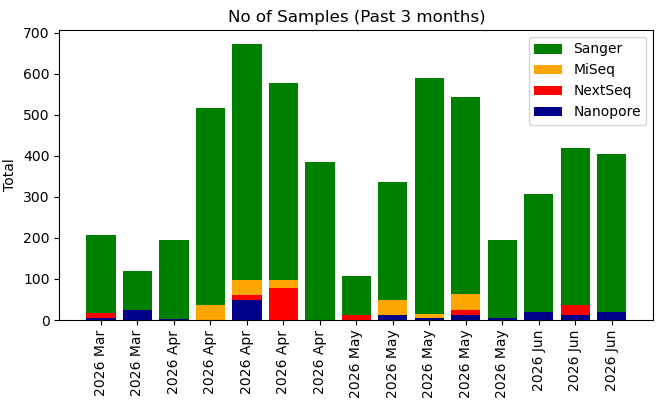
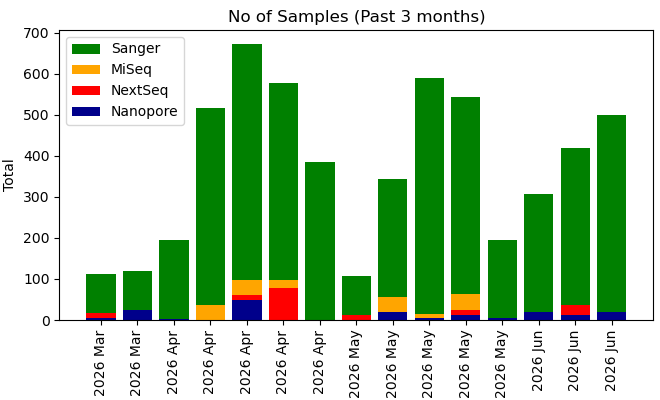
Your commit message here

diff --git a/krona/cgs.html b/krona/cgs.html
@@ -52,8 +52,8 @@ body {
   flex-direction: column;
 }
 </style>
-<H1>Genomics Facility Status: 07:00:16, 19/06/2026</H1>
-<marquee behavior="scroll" scrollamount="20" direction="left" bgcolor="lightgrey">AATCCGCGGCATTTAGTAGCGGTAAAGTTAGACCAAACCATGAAACCAACATAAACATTATTGCCCGGCGTACGGGGAAGGACGTCAATAGTCACACAGTCCTTGACGGTATAATAACCACCATCATGGCGACCATCCAAAGGATAAACATCATAGGCAGTCGGGAGGGTAGTCGGAACCGAAGAAGACTCAAAGCGAACCAAACAGGCAAAAAATTTAGGGTCGGCATCAAAAGCAATATCAGCACCAA</marquee>
+<H1>Genomics Facility Status: 07:00:21, 20/06/2026</H1>
+<marquee behavior="scroll" scrollamount="20" direction="left" bgcolor="lightgrey">CCGGCGTCAACCATACCAGCAGAGGAAGCATCAGCACCAGCACGCTCCCAAGCATTAAGCTCAGGAAATGCAGCAGCAAGATAATCACGAGTATCCTTTCCTTTATCAGCGGCAGACTTGCCACCAAGTCCAACCAAATCAAGCAACTTATCAGAAACGGCAGAAGTGCCAGCCTGCAACGTACCTTCAAGAAGTCCTTTACCAGCTTTAGCCATAGCACCAGAAACAAAACTAGGGACGGCCTCATCAGG</marquee>
 <TABLE BORDER=0><TR><TD><TABLE class="styled-table"><H3>GigaBases Sequenced</H3>
-<TR><TD><b>Platform</b></TD><TD><b>Week</b></TD><TD><b>Month</b></TD><TD><b>Year</b></TD><TD><b>Total</b></TD></TR><TR><TD>Illumina MiSeq</TD><TD>0.0</TD><TD>7.36</TD><TD>341.6</TD><TD>567.8</TD></TR><TR><TD>Illumina NextSeq</TD><TD>143.68</TD><TD>151.09</TD><TD>3884.17</TD><TD>6797.43</TD></TR><TR><TD>Nanopore PromethION</TD><TD>303.94</TD><TD>1128.87</TD><TD>8813.97</TD><TD>13758.17</TD></TR><TR><TD>Sanger</TD><TD>0.0</TD><TD>0.0</TD><TD>0.02</TD><TD>0.05</TD></TR></TABLE></TD><TD><IMG SRC="fig1.png"><IMG SRC="fig2.png"></TD></TR><TR><TD><H3>No. Samples (No. Experiments)</H3>
-<TABLE class="styled-table"><TR><TD><b>Platform</b></TD><TD><b>Week</b></TD><TD><b>Month</b></TD><TD><b>Year</b></TD><TD><b>Total</b></TD></TR><TR><TD>Illumina MiSeq</TD><TD>0 (0)</TD><TD>40 (1)</TD><TD>1360 (69)</TD><TD>2514 (101)</TD></TR><TR><TD>Illumina NextSeq</TD><TD>24 (1)</TD><TD>36 (3)</TD><TD>1236 (58)</TD><TD>2222 (90)</TD></TR><TR><TD>Nanopore PromethION</TD><TD>27 (8)</TD><TD>67 (29)</TD><TD>647 (217)</TD><TD>1075 (379)</TD></TR><TR><TD>Sanger</TD><TD>480 (480)</TD><TD>1728 (1728)</TD><TD>21115 (21115)</TD><TD>46914 (46914)</TD></TR></TABLE></TD><TD><IMG SRC="fig4.png"></TD></TR></TABLE></HTML>
+<TR><TD><b>Platform</b></TD><TD><b>Week</b></TD><TD><b>Month</b></TD><TD><b>Year</b></TD><TD><b>Total</b></TD></TR><TR><TD>Illumina MiSeq</TD><TD>0.0</TD><TD>7.36</TD><TD>341.6</TD><TD>567.8</TD></TR><TR><TD>Illumina NextSeq</TD><TD>143.68</TD><TD>143.68</TD><TD>3884.17</TD><TD>6797.43</TD></TR><TR><TD>Nanopore PromethION</TD><TD>526.29</TD><TD>1351.22</TD><TD>9036.04</TD><TD>13980.53</TD></TR><TR><TD>Sanger</TD><TD>0.0</TD><TD>0.0</TD><TD>0.02</TD><TD>0.05</TD></TR></TABLE></TD><TD><IMG SRC="fig1.png"><IMG SRC="fig2.png"></TD></TR><TR><TD><H3>No. Samples (No. Experiments)</H3>
+<TABLE class="styled-table"><TR><TD><b>Platform</b></TD><TD><b>Week</b></TD><TD><b>Month</b></TD><TD><b>Year</b></TD><TD><b>Total</b></TD></TR><TR><TD>Illumina MiSeq</TD><TD>0 (0)</TD><TD>40 (1)</TD><TD>1360 (69)</TD><TD>2514 (101)</TD></TR><TR><TD>Illumina NextSeq</TD><TD>24 (1)</TD><TD>24 (2)</TD><TD>1236 (58)</TD><TD>2222 (90)</TD></TR><TR><TD>Nanopore PromethION</TD><TD>26 (9)</TD><TD>66 (30)</TD><TD>653 (217)</TD><TD>1082 (380)</TD></TR><TR><TD>Sanger</TD><TD>480 (480)</TD><TD>1728 (1728)</TD><TD>21211 (21211)</TD><TD>47010 (47010)</TD></TR></TABLE></TD><TD><IMG SRC="fig4.png"></TD></TR></TABLE></HTML>
